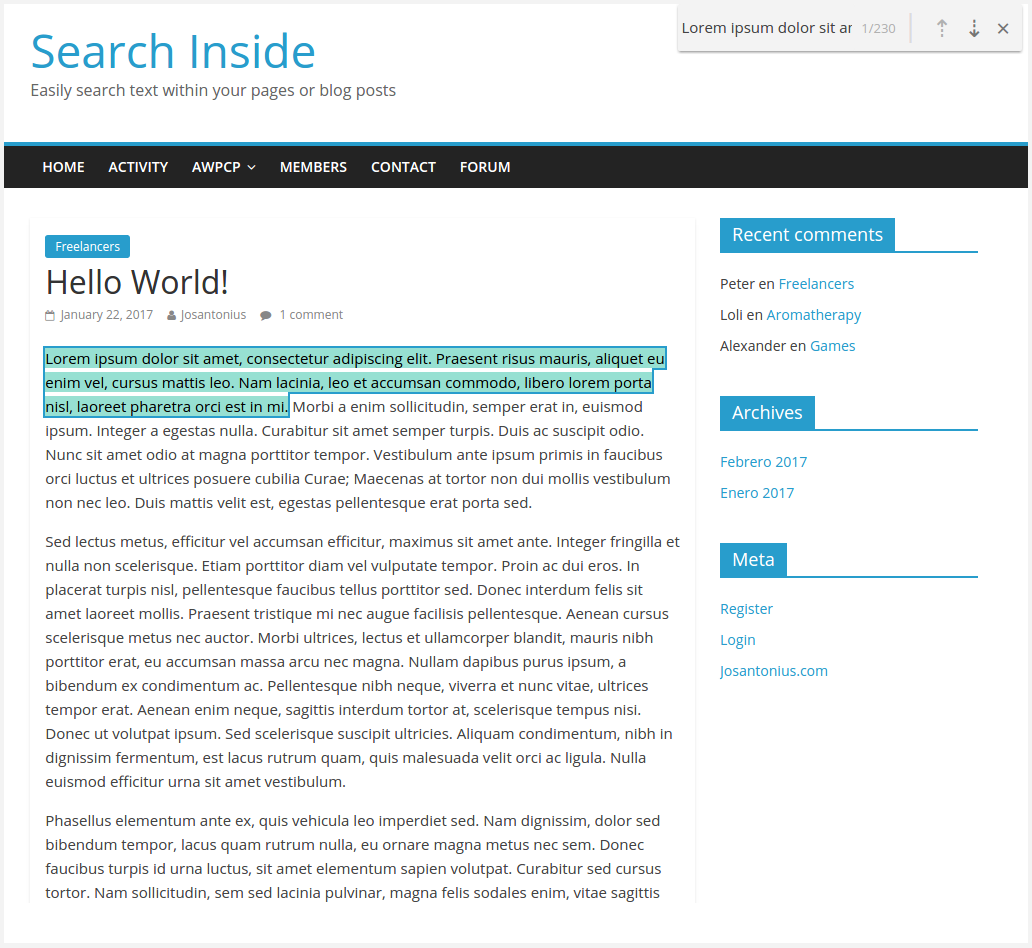
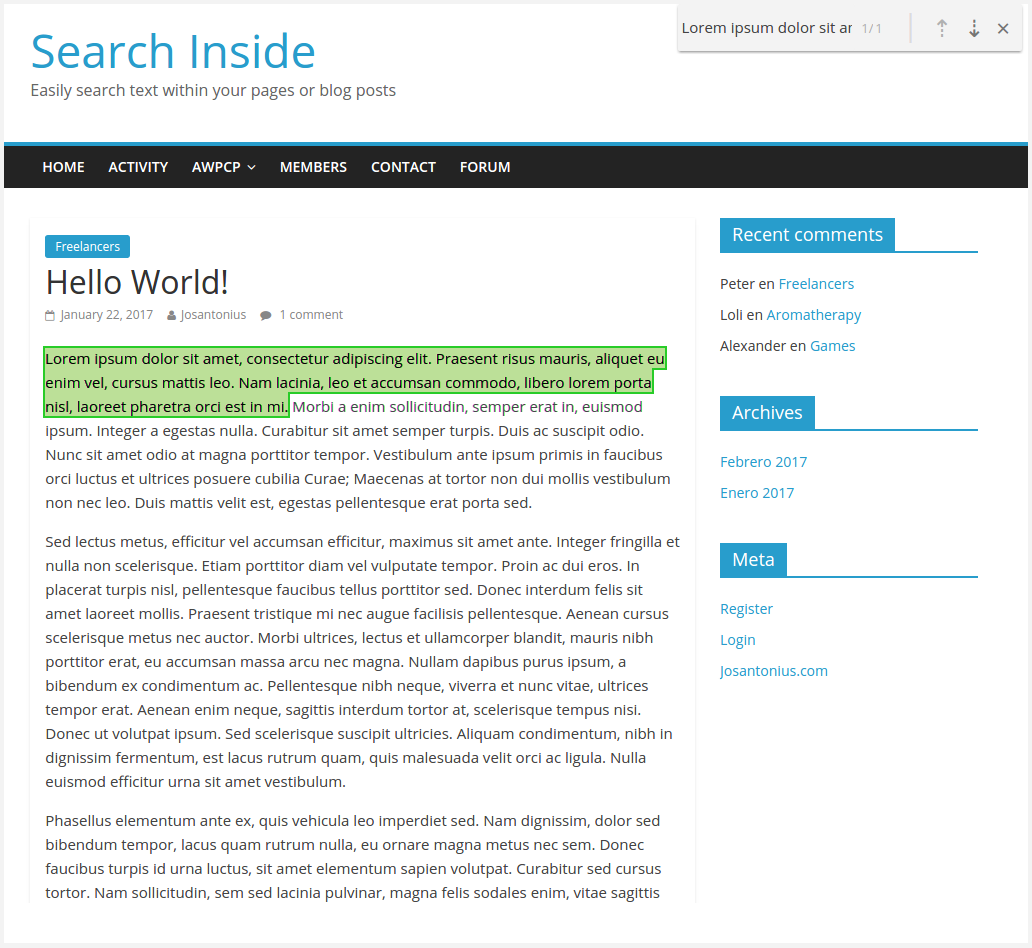
Upgrade to version 1.1.2

Changed region(s): [[0.031, 0.3671, 0.6512, 0.4589]]

diff --git a/assets/js/searchinside.js b/assets/js/searchinside.js
@@ -172,9 +172,9 @@
 
             appendForm(null, config);
             $("#searchinside").removeClass("nodisplay");
+            config.Position = $('#searchinside').offset().top;
             runSearch(config);
-            var tag = $('#searchinside').offset().top;
-            keepAlwaysVisible(tag);
+            keepAlwaysVisible(config.Position);
     }
 
     /**
@@ -280,12 +280,13 @@
         },false);
 
         navCancel.addEventListener("click",function(e){
+            searchEl.value="";
+            searchTrigger();
+            container.scrollTop=0;
             if ((config.idContainer === 'body')) {
-                searchEl.value="";
-                searchTrigger();
-                container.scrollTop=0;
                 $('#searchinside').remove();
             } else {
+                $(window).scrollTop(config.Position - 100);
                 $("#searchinside").addClass("appended");
             }
         },false);

diff --git a/assets/js/hilitor.js b/assets/js/hilitor.js
@@ -148,6 +148,11 @@ function Hilitor2(id, tag, colors)
         match.style.backgroundColor = wordColor[regs[1].toLowerCase()];
         match.style.fontStyle = "inherit";
         match.style.color = "#000";
+        
+        // Expand padding if it is a phrase search so that the color stay unified
+        if (this.searchMode === " ") {
+          match.style.padding = "2px";
+        }
 
         var after;
         if(regs[0].match(/^\s/)) { // in case of leading whitespace

diff --git a/Admin/Pages/Options.php b/Admin/Pages/Options.php
@@ -393,14 +393,14 @@ class Options {
                     <select class="mdl-select__input" id="executeWith" name="executeWith">
                         <?= $this->optionsSearchSelectOneSection(); ?>
                     </select>
-                    <label class="mdl-select__label" for="executeWith">&nbsp;<?php echo __('SEARCH ENGINE', 'searchinside') ?></label>
+                    <label class="mdl-select__label" for="executeWith">&nbsp;<?php echo __('SEARCH a', 'searchinside') ?></label>
                 </div>
                 <div class="mdl-textfield mdl-js-textfield mdl-textfield--floating-label" id="wpsi-html-tag">
                     <input class="mdl-textfield__input" name="idContainer" id="idContainer" type="text" value="<?= $this->options['idContainer'] ?>">
                     <label class="mdl-textfield__label" for="idContainer"><?= __('HTML TAG ID WHERE TO INSERT FORM', 'searchinside') ?></label>
                 </div>
                 <div id="wpsi-shortcode">
-                   <p class="shortcode-example">[add-search-engine]</p>
+                   <p class="shortcode-example">[add-search-inside]</p>
                 </div>
                 <div class="mdl-select mdl-js-select mdl-select--floating-label">
                     <select class="mdl-select__input" id="searchMode" name="searchMode">
